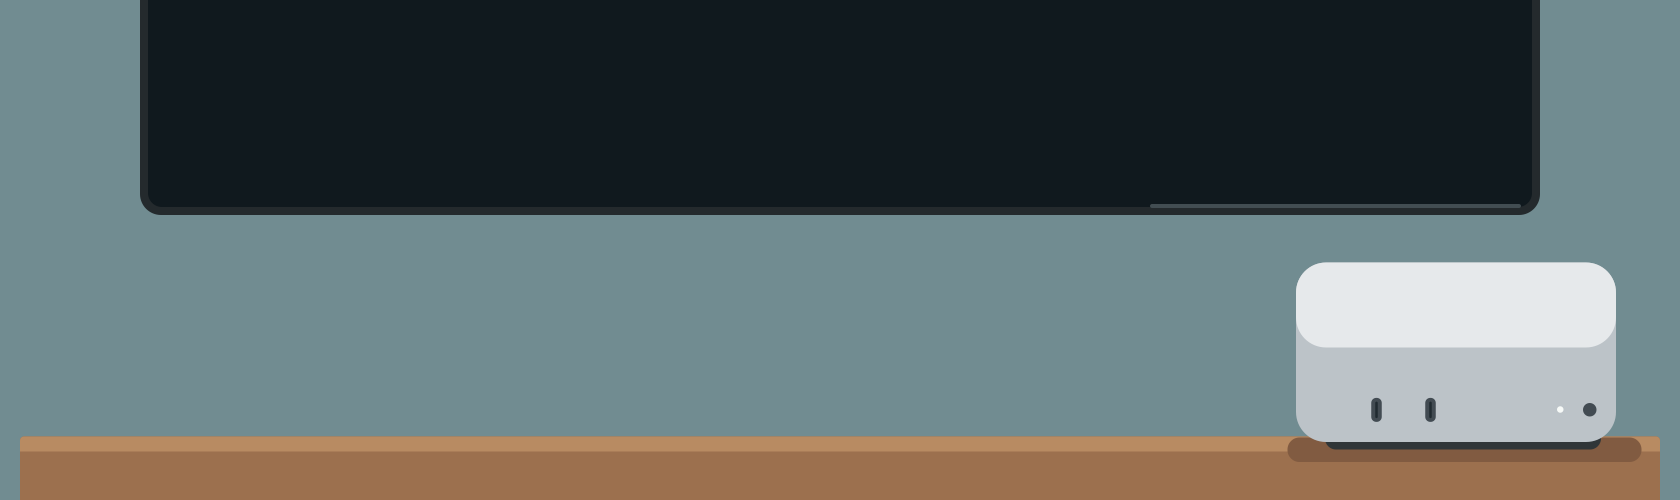
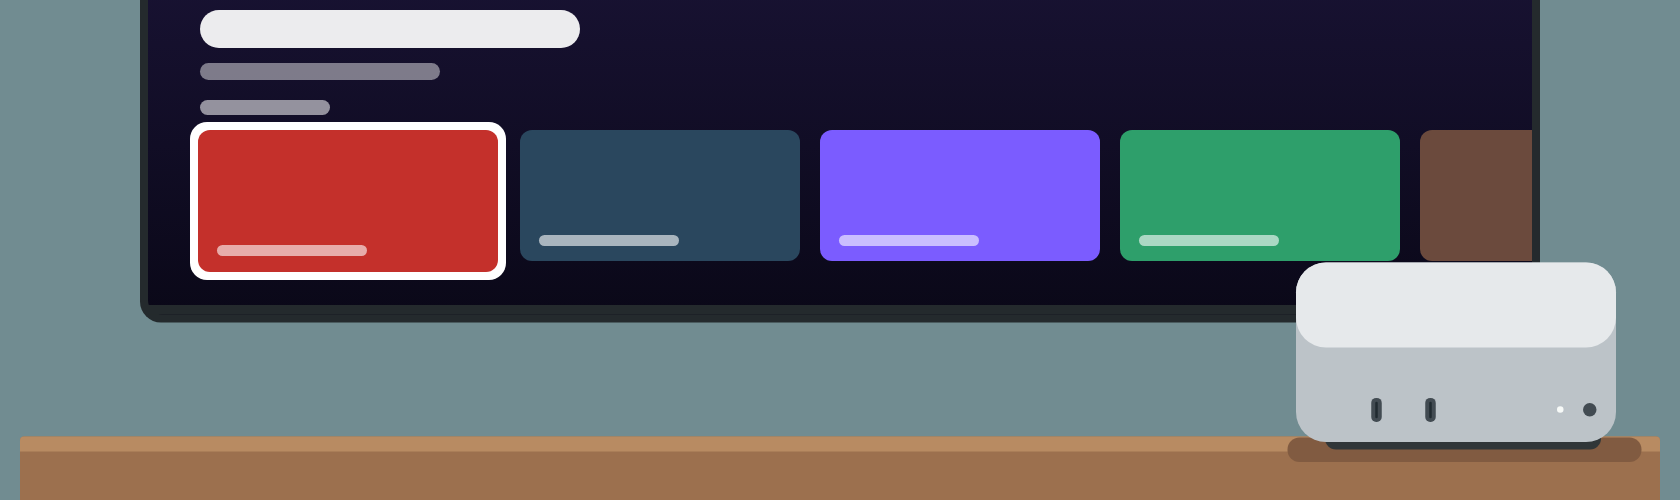
Cube TV: the Play tile is its picture; header shows a bigger TV with the Cube TV screen
Claude-Session: https://claude.ai/code/session_016YXEbhU7vZ3b9icgYhV2QP

diff --git a/setup/CouchCube/SetupController+Home.swift b/setup/CouchCube/SetupController+Home.swift
@@ -50,9 +50,14 @@ extension SetupController {
         if homeArtworkMenu != frontend || homePlayBackground.layer?.contents == nil {
             homeArtworkMenu = frontend
             let path = appStates.first { $0.id == frontend && $0.installed && !$0.path.isEmpty }?.path
-            let art = TVMenuArtwork.image(for: frontend, appIcon: path.map { NSWorkspace.shared.icon(forFile: $0) })
+            // Cube TV's own picture (TV, Mac mini, the home screen) is the whole tile: no logo, no name, no dimming.
+            let tilePicture = frontend == "cube-tv"
+                ? Bundle.main.resourceURL.flatMap { NSImage(contentsOf: $0.appendingPathComponent("AppIcons/cube-tv-tile.png")) } : nil
+            let art = tilePicture ?? TVMenuArtwork.image(for: frontend, appIcon: path.map { NSWorkspace.shared.icon(forFile: $0) })
             homePlayBackground.layer?.contentsGravity = .resizeAspectFill
             homePlayBackground.layer?.contents = art.cgImage(forProposedRect: nil, context: nil, hints: nil)
+            homePlayTitle.isHidden = tilePicture != nil
+            homePlayShade.isHidden = tilePicture != nil
         }
         homePlaySubtitle.stringValue = frontend == nil ? homeMenuLabel.stringValue : ""
         playAction.setAccessibilityLabel("Cube TV · \(homeMenuLabel.stringValue)")

diff --git a/setup/CouchCube/SetupController.swift b/setup/CouchCube/SetupController.swift
@@ -194,6 +194,9 @@ final class SetupController: NSObject, NSApplicationDelegate, NSWindowDelegate, 
     var homeSessionControllers: [String] = []
     var homeObservedConnections = Set<String>()
     let homePlayBackground = NSView()
+    /// The Play tile's name and dimming layer; Cube TV's picture is the whole tile, so it hides both.
+    var homePlayTitle: NSTextField!
+    var homePlayShade: NSView!
     let launcherSections = NSStackView()
     /// Shown after an app operation fails: macOS's App Management permission is the usual cause.
     let appManagementHint = NSStackView()
@@ -670,6 +673,8 @@ final class SetupController: NSObject, NSApplicationDelegate, NSWindowDelegate, 
         homePlaySubtitle.font = .systemFont(ofSize: 13, weight: .semibold)
         homePlaySubtitle.textColor = NSColor.white.withAlphaComponent(0.85)
         homePlaySubtitle.shadow = playTitle.shadow
+        homePlayTitle = playTitle
+        homePlayShade = shade
         for view in [homePlayBackground, shade, playTitle, homePlaySubtitle, play] {
             view.translatesAutoresizingMaskIntoConstraints = false
             playCard.contentView!.addSubview(view)

diff --git a/scripts/cube-tv-icon.py b/scripts/cube-tv-icon.py
@@ -28,6 +28,34 @@ def gradient(size, top, bottom):
     return image
 
 
+def screen_image(width, height):
+    """The made-up Cube TV home screen, drawn on an 844 x 508 design grid and scaled to width x height."""
+    sw, sh = 844, 508
+    screen = gradient((px(sw), px(sh)), (46, 34, 92), (10, 8, 24))
+
+    def sbox(x, y, w, h):
+        return [px(x), px(y), px(x + w), px(y + h)]
+
+    glow = Image.new("RGBA", screen.size, (0, 0, 0, 0))
+    ImageDraw.Draw(glow).ellipse(sbox(380, -120, 560, 420), fill=(160, 128, 255, 90))
+    screen = Image.alpha_composite(screen.convert("RGBA"), glow.filter(ImageFilter.GaussianBlur(px(60)))).convert("RGB")
+    sd = ImageDraw.Draw(screen, "RGBA")  # "RGBA" mode blends the translucent fills instead of replacing pixels
+    sd.rounded_rectangle(sbox(40, 36, 300, 40), radius=px(20), fill=(255, 255, 255, 235))
+    sd.rounded_rectangle(sbox(40, 92, 190, 20), radius=px(10), fill=(255, 255, 255, 120))
+    sd.rounded_rectangle(sbox(40, 168, 110, 16), radius=px(8), fill=(255, 255, 255, 150))
+    tiles = [("#c4302b", 40, 200, 214, 100, True), ("#2a475e", 270, 200, 190, 100, False),
+             ("#7b5cff", 476, 200, 190, 100, False), ("#2e9f6b", 682, 200, 190, 100, False)]
+    for color, x, y, w, h, focused in tiles:
+        if focused:
+            sd.rounded_rectangle(sbox(x - 8, y - 8, w + 16, h + 16), radius=px(22), fill=(255, 255, 255, 255))
+        sd.rounded_rectangle(sbox(x, y, w, h), radius=px(16), fill=color)
+        sd.rounded_rectangle(sbox(x + 14, y + h - 30, w * 0.5, 12), radius=px(6), fill=(255, 255, 255, 150))
+    sd.rounded_rectangle(sbox(40, 346, 130, 16), radius=px(8), fill=(255, 255, 255, 110))
+    for i, color in enumerate(["#3d3f6b", "#57407a", "#2f5266", "#6b4a3d"]):
+        sd.rounded_rectangle(sbox(40 + i * 206, 376, 190, 160), radius=px(16), fill=color)
+    return screen.resize((width, height), Image.LANCZOS)
+
+
 def draw_icon():
     canvas = Image.new("RGBA", (W, W), (0, 0, 0, 0))
     scene = Image.new("RGBA", (W, W), "#718c91")
@@ -38,32 +66,7 @@ def draw_icon():
     # TV: dark bezel, screen with the Cube TV home screen.
     d.rounded_rectangle(box(70, 92, 884, 548), radius=px(40), fill="#242a2d")
     sx, sy, sw, sh = 90, 112, 844, 508
-    screen = gradient((px(sw), px(sh)), (46, 34, 92), (10, 8, 24)).convert("RGBA")
-    sd = ImageDraw.Draw(screen)
-
-    def sbox(x, y, w, h):
-        return [px(x), px(y), px(x + w), px(y + h)]
-
-    # Hero: a glow, a big title and a smaller line.
-    glow = Image.new("RGBA", screen.size, (0, 0, 0, 0))
-    ImageDraw.Draw(glow).ellipse(sbox(380, -120, 560, 420), fill=(160, 128, 255, 90))
-    screen = Image.alpha_composite(screen, glow.filter(ImageFilter.GaussianBlur(px(60))))
-    sd = ImageDraw.Draw(screen)
-    sd.rounded_rectangle(sbox(40, 36, 300, 40), radius=px(20), fill=(255, 255, 255, 235))
-    sd.rounded_rectangle(sbox(40, 92, 190, 20), radius=px(10), fill=(255, 255, 255, 120))
-    # Shelf title, then the focused tile and its neighbours.
-    sd.rounded_rectangle(sbox(40, 168, 110, 16), radius=px(8), fill=(255, 255, 255, 150))
-    tiles = [("#c4302b", 40, 200, 214, 100, True), ("#2a475e", 270, 200, 190, 100, False),
-             ("#7b5cff", 476, 200, 190, 100, False), ("#2e9f6b", 682, 200, 190, 100, False)]
-    for color, x, y, w, h, focused in tiles:
-        if focused:
-            sd.rounded_rectangle(sbox(x - 8, y - 8, w + 16, h + 16), radius=px(22), fill=(255, 255, 255, 255))
-        sd.rounded_rectangle(sbox(x, y, w, h), radius=px(16), fill=color)
-        sd.rounded_rectangle(sbox(x + 14, y + h - 30, w * 0.5, 12), radius=px(6), fill=(255, 255, 255, 150))
-    # The next shelf, cut off by the screen edge.
-    sd.rounded_rectangle(sbox(40, 346, 130, 16), radius=px(8), fill=(255, 255, 255, 110))
-    for i, color in enumerate(["#3d3f6b", "#57407a", "#2f5266", "#6b4a3d"]):
-        sd.rounded_rectangle(sbox(40 + i * 206, 376, 190, 160), radius=px(16), fill=color)
+    screen = screen_image(px(sw), px(sh))
     mask = Image.new("L", screen.size, 0)
     ImageDraw.Draw(mask).rounded_rectangle([0, 0, screen.size[0], screen.size[1]], radius=px(26), fill=255)
     scene.paste(screen, (px(sx), px(sy)), mask)
@@ -83,8 +86,39 @@ def draw_icon():
     return canvas.resize((1024, 1024), Image.LANCZOS)
 
 
+def draw_tile(width=1600, height=900):
+    """The Play tile's picture: the whole scene, wide. The centre square stays readable when the tile is narrow."""
+    k = width / 1920
+    scene = Image.new("RGBA", (width, height), "#718c91")
+    d = ImageDraw.Draw(scene)
+
+    def r(x, y, w, h):
+        return [round(x * k), round(y * k), round((x + w) * k), round((y + h) * k)]
+
+    d.rectangle(r(0, 910, 1920, 200), fill="#9c704e")
+    d.rectangle(r(0, 910, 1920, 28), fill="#b88b62")
+    d.rounded_rectangle(r(300, 70, 1180, 665), radius=round(44 * k), fill="#242a2d")
+    sw, sh = 1152, 633
+    screen = screen_image(round(sw * k), round(sh * k))
+    mask = Image.new("L", screen.size, 0)
+    ImageDraw.Draw(mask).rounded_rectangle([0, 0, screen.size[0], screen.size[1]], radius=round(28 * k), fill=255)
+    scene.paste(screen, (round(314 * k), round(84 * k)), mask)
+    d = ImageDraw.Draw(scene)
+    d.rounded_rectangle(r(1290, 904, 560, 44), radius=round(22 * k), fill="#815b41")
+    d.rounded_rectangle(r(1350, 886, 440, 40), radius=round(20 * k), fill="#303638")
+    d.rounded_rectangle(r(1330, 640, 500, 280), radius=round(48 * k), fill="#bcc3c8")
+    d.rounded_rectangle(r(1330, 640, 500, 132), radius=round(48 * k), fill="#e6e9eb")
+    for x in (1450, 1535):
+        d.rounded_rectangle(r(x, 840, 16, 38), radius=round(8 * k), fill="#424b52")
+    d.ellipse(r(1735, 848, 22, 22), fill="#424b52")
+    return scene.convert("RGB")
+
+
 if __name__ == "__main__":
     out = Path(sys.argv[1]) if len(sys.argv) > 1 else Path(__file__).resolve().parents[1] / "assets/app-icons/cube-tv.png"
     icon = draw_icon()
     icon.resize((512, 512), Image.LANCZOS).save(out)
     print("Wrote", out)
+    tile = out.with_name("cube-tv-tile.png")
+    draw_tile().save(tile)
+    print("Wrote", tile)

diff --git a/DESIGN.md b/DESIGN.md
@@ -261,7 +261,7 @@ SteamGridDB's wide grid on their tile (before the libretro cover), plus a hero, 
 SteamGridDB's CDN, misses remembered for a week. Drive pages count games
 the same way, not files. Tiles fill the width in a flow grid; click, Return or
 VoiceOver opens them, and their menu offers Open, Show in Finder and, for added apps, Remove from Play. The search field filters by name.
-The Cube TV tile's artwork is drawn in code (`TVMenuArtwork.swift`) so it stays sharp at any size: the
+The Cube TV tile's artwork (other menus) is drawn in code (`TVMenuArtwork.swift`) so it stays sharp at any size: the
 chosen menu's colors (Steam blue, ES-DE red, Cube TV purple when none is chosen), a soft glow and
 scanlines, the installed app's own icon (bundled icon as fallback) and its name ("STEAM / Big Picture",
 "ES-DE / Retro Games"), all centered in a square safe area so nothing is cut off however narrow the
@@ -656,3 +656,10 @@ preload apps hidden (Steam and Battle.net by default when installed; installed l
 one-click "+" suggestions), and runs the optional Focus Shortcut ("Set Focus" action, e.g. Gaming). **End Game Night**
 closes the preload apps and runs the Focus-off Shortcut. The same two actions are in the Cube TV menu.
 Every running app has its Quit button at the end of its row.
+
+### Cube TV picture and home header
+
+When Cube TV is the TV menu, the **Play tile is just its picture** (`assets/app-icons/cube-tv-tile.png`: a wall-mounted TV
+showing a made-up Cube TV home screen, the Mac mini bottom right on the oak cabinet), with no logo, name or dimming.
+`scripts/cube-tv-icon.py` draws it and the square app-style icon (`cube-tv.png`). `assets/header.svg` (the non-SSD
+header, exported to `header.png`) now shows the TV larger, with the same home screen on it.
